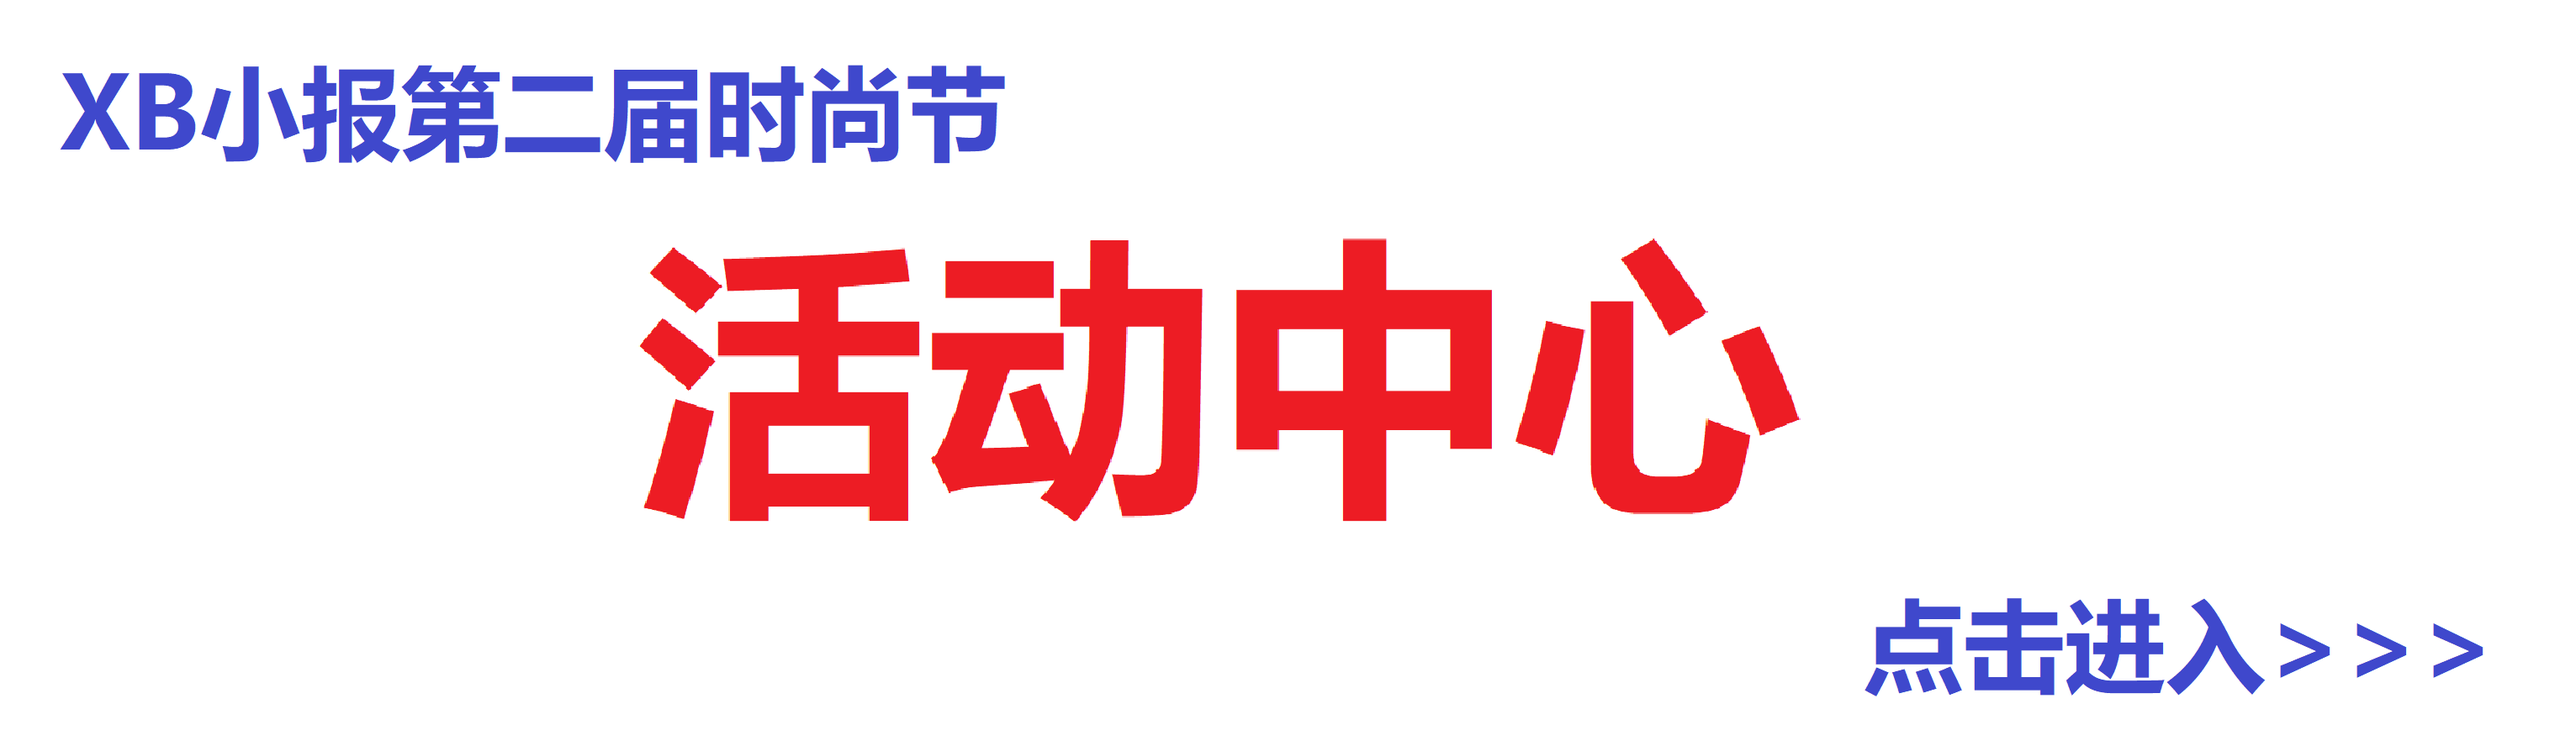
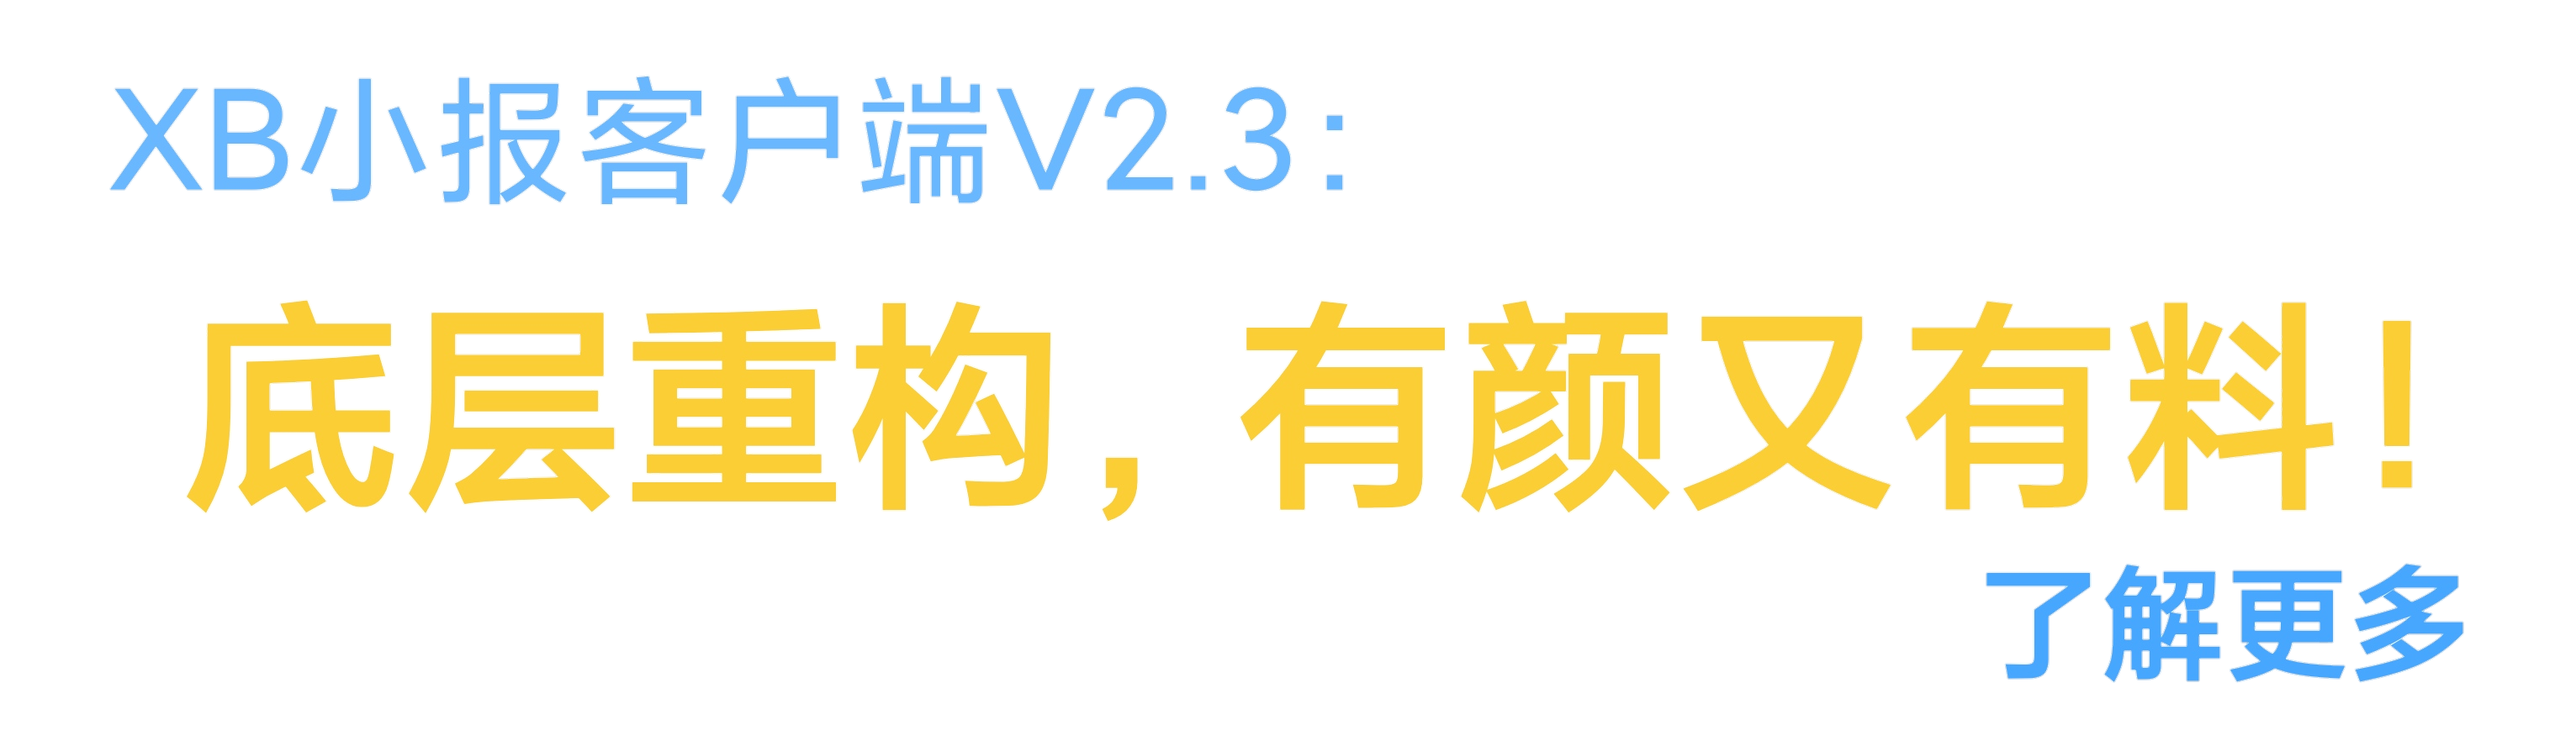
更新至2.3.1003rev1.76版本

Changed region(s): [[0.062, 0.3041, 0.9615, 0.6993], [0.0, 0.0912, 0.5273, 0.2736], [0.7134, 0.7601, 0.9615, 0.9426]]

diff --git a/banner.html b/banner.html
@@ -1,19 +1,86 @@
 <!DOCTYPE html>
 <html>
 	<head>
-	<title>XB小报 - 时尚节活动页</title>
+	<title>XB小报 - V2.3宣传页</title>
     <link rel="stylesheet" type="text/css" href="style.css" />
     </head>
     <body>
     <div style="text-align:center;font-size:50px;font-weight:900">
-    XB小报时尚节<br>活动中心
+    XB小报V2.3<br>重构想象
     <hr />
-<a href="https://www.lanzouw.com/iFEZNuntk4b"><img src="banner/assets/1.png" width="350" alt="banner" /></a><br>
-<a href="banner/files/download.html"><img src="banner/assets/2.png" width="350" alt="banner" /></a><br>
-<a href="banner/guide/guide.html"><img src="banner/assets/3.png" width="350" alt="banner" /></a><br>
-<a href="banner/map/map.html"><img src="banner/assets/4.png" width="350" alt="banner" /></a><br>
-<div style="text-align:center;font-size:20px;font-weight:200">
-2021.10，第二届时尚节
+<div style="text-align:left;font-size:13px;font-weight:1">
+新版本更新内容<br>
+<div style="text-align:left;font-size:20px;font-weight:1">
+1.XB小报V2.3：底层重构，有颜又有料！<br>
+2.新增：全新主页面（beta）<br>
+3.新增：模块式APP结构，使用更方便<br>
+4.新增：主页抽屉功能<br>
+5.优化：各页面左上角返回按钮<br>
+6.优化：logo与banner分离，可单独关闭<br>
+7.新增：设置页新增主动检查更新选项<br>
+8.优化：Web模块检查更新采用新策略<br>
+9.新增：设置页新增退出时清除缓存选项<br>
+10.新增：部分页面部分词条支持英语、韩语、日语<br>
+11.优化：部分措辞、细节优化<br>
+12.新增：主页面提示语联网更新<br>
+13.新增：主页面弹出公告栏（有需要时）<br>
+14.优化：部分页面稳定性<br>
+15.新增：去除了旧版自定义服务器，改为选项形式<br>
+16.优化：保留了自定义服务器，但整合到了一处<br>
+17.优化：真正做到所有联网项目（除Web模块）一站式改服务器<br>
+18.新增：主页面下方彩蛋按钮<br>
+19.优化：Web模块主页措辞修改<br>
+20.优化：Web模块获取版本机制更新<br>
+21.优化：解决了部分烦人的BUG<br>
+22.其他：目前没有灵感，安卓端例行更新先到这吧，如有需要会在主页公告发布   ——ZH 2021.8.16<br>
+23.新增：没想到吧~我又回来更新了~<br>
+24.新增：工具箱上线，目前提供三种工具<br>
+25.新增：屏幕测试模块，可在工具箱和开发者工具中启动<br>
+26.优化：修复了主页返回键对抽屉菜单无效的BUG<br>
+27.优化：抽屉菜单宽度调整<br>
+28.优化：修复了设置-修改服务器选项中修改服务器后说明部分不变的问题<br>
+29.优化：还优化了一些影响体验的其他问题<br>
+30.新增：智慧物联系统，仅限内部使用<br>
+31.新增：设置页支持直接清理缓存<br>
+32.优化：设置页诸多优化<br>
+33.优化：还解决了许多BUG<br>
+34.优化：解决了部分问题，体验更棒！<br>此刻ZH纵有万般想法，但迫于上线要求无法实现，且身心俱疲，择日再更便是了<br>——ZH 2021.9.16<br>
+35.新增：服务器选择选项增加ZH服务器<br>
+36.新增：首次启动及设置页增加自动判断并选择服务器<br>
+37.优化：某些功能优化<br>
+38.重要：适配了Android 12(API31)的一些特性，targetSdkVersion升级至31<br>
+39.活动：时尚节活动将于10.1开启~本次更新还适配了一些活动内容<br>
+40.新增：工具箱新增Ping工具<br>
+41.新增：服务器列表新增国际镜像服务器，其他服务器措辞调整<br>
+42.新增：全新的昵称系统(仅适用于主APP)<br>
+43.新增：新增主页问候语系统，问候语来自https://hitokoto.cn/<br>
+44.优化：设置页逻辑与简洁性优化<br>
+45.优化：调整了询问存储权限的频率<br>
+46.优化：优化了一些影响稳定性的其他问题<br>
+47.活动：鉴于活动情况，我们很遗憾的决定，提前结束时尚节logo、banner宣传，并将该活动移至活动归档，如需访问，请点击主模块内的活动按钮<br>
+48.新增：主页支持下拉刷新<br>
+49.优化：修复了那个上个版本一点用没有的敏感词拦截系统<br>
+50.优化：优化了智慧物联的部分功能<br>
+51.优化：优化了主页各模块的排布与样式<br>
+<hr/>
+
+<div style="text-align:left;font-size:13px;font-weight:1">
+ZH的例行碎碎念<br>
+<div style="text-align:left;font-size:20px;font-weight:1">
+首先，欢迎大家下载使用最最最新版本：2.3版本的XB小报客户端。<br>
+在这个版本里，我们连续开发5天，终于实现了对主页全方位的重构。新的主页拥有更稳定的运行和更高的颜值（这个。。。目前没有，但脱离内测版本以后一定会有！这就是我们的UI专项哦~）<br>
+同时，我们也添加了一些设置，主页面的设置与其他页面（现在叫Web模块）的设置做了分离，虽然有些难懂，但我们会尽可能尝试整合（失败了就算了haha)<br>
+可以看出，我们也同时计划使XB小报变得更加模块化。我们先将整个2.2版本拆离成为一个模块（Web模块），同时我们也正在积极开发新的模块。这次的模块是从app底层开发的，体验相较旧版本的模块功能好到不能再好。<br>
+在一些细节方面，我们也进行了一些改进。我们给所有页面加上了左上角标，一个向左的小箭头⬅，它可以立即返回上一页面，无视其他条件。好看了，也实用了。<br>
+最后，根据我们的slogan必抄其他厂家的原则，这次我们选择了华为的“重构想象”作为我们2.3版本的slogan。挺应景的吧~<br>
+好了，唠的也差不多了，不挖坑了，看看后期的推送更新都有什么吧~See you next 大版本~<br>
+
+<hr/>
+
+<div style="text-align:left;font-size:13px;font-weight:1">
+写在最后<br>
+<div style="text-align:left;font-size:20px;font-weight:1">
+感谢大家下载使用XB小报APP！<br>
         <hr/>
        <div style="text-align:center;font-size:18px;font-weight:1">
 <a href="http://zhanghe56.m.icoc.me" target=_blank>XB小报官方网站</a><p>
